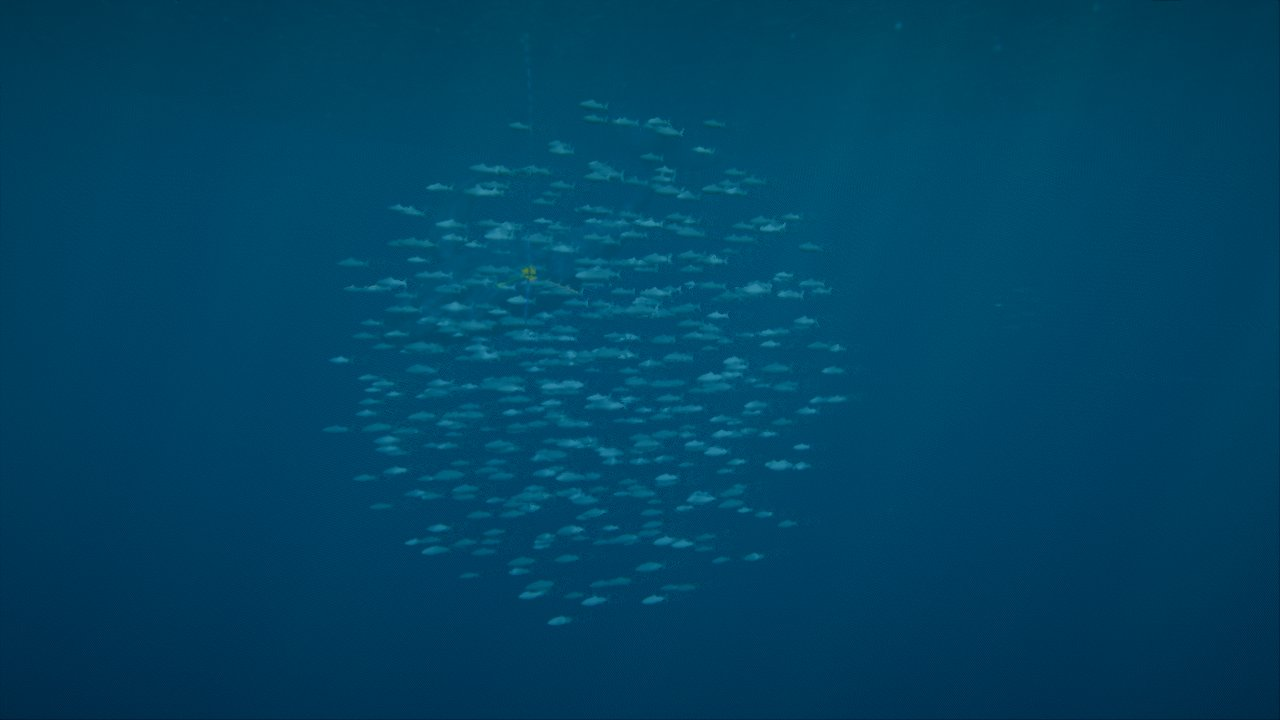
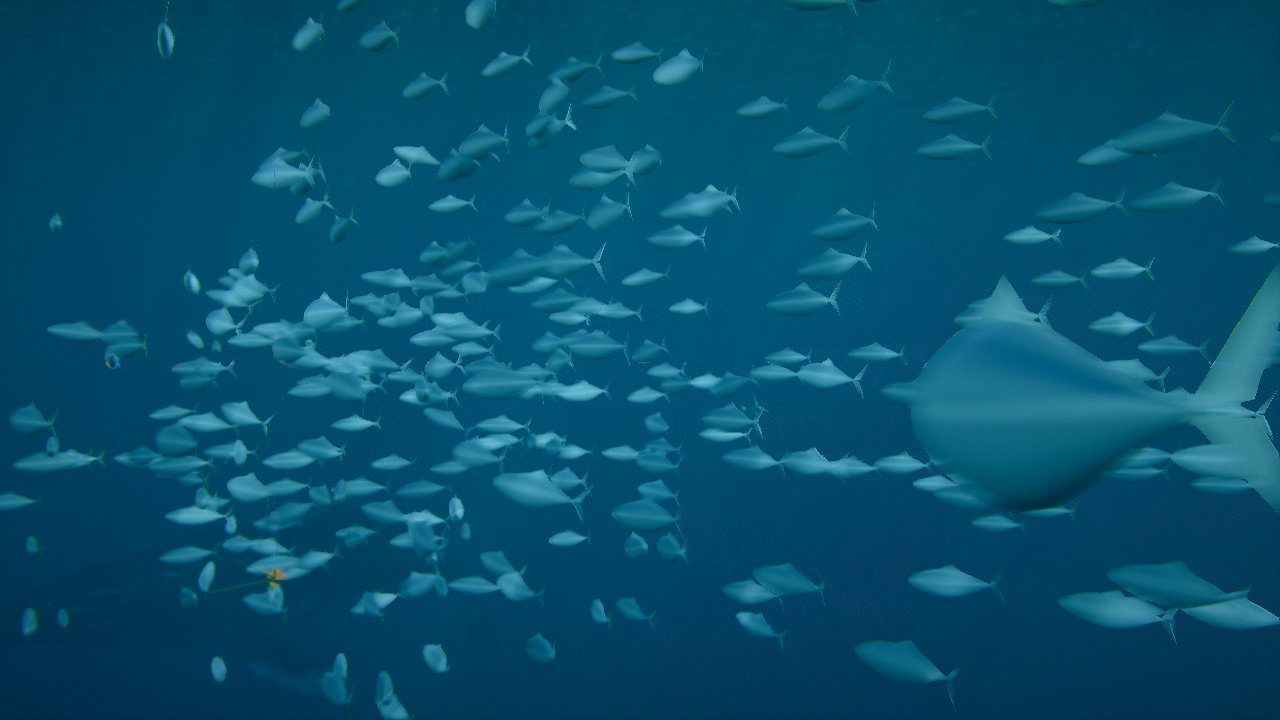
Peces: corregida la geometría (el coletazo se calculaba con la instancia ya aplicada)
En three r186 positionLocal ya lleva la matriz de la instancia al evaluar
positionNode: el coletazo usaba la z del mundo y estiraba cada pez en una
aguja de metros. Ahora usa el atributo original y aplica el desplazamiento
en el eje lateral de cada pez (atributo por instancia). Doc peces.md
corregida (el diagnóstico del TAA era equivocado) y capturas nuevas.

diff --git a/src/life/fish.js b/src/life/fish.js
@@ -1,7 +1,7 @@
 import * as THREE from 'three/webgpu';
 import { mergeGeometries } from 'three/addons/utils/BufferGeometryUtils.js';
 import {
-  abs, clamp, float, instancedBufferAttribute, max, mix, mrt, normalLocal, positionLocal, positionWorld, sin, smoothstep,
+  abs, attribute, clamp, float, instancedBufferAttribute, max, mix, mrt, normalLocal, positionLocal, positionWorld, sin, smoothstep,
   uniform, vec3, vec4, output,
 } from 'three/tsl';
 
@@ -66,17 +66,21 @@ export function createFish({ scene, ocean, water, camera }) {
   const geo = fishGeometry();
 
   // ------------------------------------------------------------------ material (coletazo + contrasombreado)
-  const makeMaterial = (paramsAttr, motionAttr, base, belly) => {
+  const makeMaterial = (paramsAttr, motionAttr, sideAttr, base, belly) => {
     const m = new THREE.MeshStandardNodeMaterial({ roughness: 0.35, metalness: 0.2, side: THREE.DoubleSide });
     const prm = instancedBufferAttribute(paramsAttr); // x fase, y frecuencia (Hz), z amplitud
-    const z = positionLocal.z;
+    // ojo: en three, positionLocal ya lleva la matriz de la instancia cuando se evalúa positionNode;
+    // la coordenada a lo largo del cuerpo sale del atributo original y el desplazamiento lateral se
+    // aplica en el eje "costado" del pez (calculado en CPU con su orientación y escala)
+    const raw = attribute('position', 'vec3');
+    const z = raw.z;
     // la onda recorre el cuerpo de la cabeza a la cola; casi nada delante, mucho en la cola
     const bend = max(float(0.35).sub(z), 0).pow(2).mul(prm.z);
     const wag = sin(time.mul(prm.y).mul(6.2832).add(prm.x).sub(z.mul(2.5))).mul(bend);
-    m.positionNode = positionLocal.add(vec3(wag, 0, 0));
+    m.positionNode = positionLocal.add(instancedBufferAttribute(sideAttr).mul(wag));
     // lomo oscuro, vientre claro y una franja plateada
     const up = clamp(normalLocal.y.mul(0.5).add(0.5), 0, 1);
-    const stripe = float(1).sub(smoothstep(0.0, 0.05, abs(positionLocal.y.sub(0.02)))).mul(0.25);
+    const stripe = float(1).sub(smoothstep(0.0, 0.05, abs(raw.y.sub(0.02)))).mul(0.25);
     m.colorNode = mix(vec3(...belly), vec3(...base), smoothstep(0.35, 0.75, up)).add(stripe);
     // luz bajo el agua (absorción y cáusticas) y sin velocidad propia para el motion blur
     m.outputNode = output.mul(vec4(ocean.underLightNode(positionWorld), 1));
@@ -90,13 +94,14 @@ export function createFish({ scene, ocean, water, camera }) {
   function makeGroup(max, base, belly) {
     const params = new THREE.InstancedBufferAttribute(new Float32Array(max * 3), 3);
     const motion = new THREE.InstancedBufferAttribute(new Float32Array(max * 3), 3); // desplazamiento en el fotograma
-    const mesh = new THREE.InstancedMesh(geo, makeMaterial(params, motion, base, belly), max);
+    const side = new THREE.InstancedBufferAttribute(new Float32Array(max * 3), 3); // eje lateral del pez × escala
+    const mesh = new THREE.InstancedMesh(geo, makeMaterial(params, motion, side, base, belly), max);
     mesh.frustumCulled = false;
     mesh.count = 0;
     scene.add(mesh);
     const pos = new Float32Array(max * 3), vel = new Float32Array(max * 3);
     for (let i = 0; i < max; i++) params.setXYZ(i, Math.random() * 6.28, 3, 0.08);
-    return { mesh, params, motion, pos, vel, max };
+    return { mesh, params, motion, side, pos, vel, max };
   }
   const school = makeGroup(MAX_SCHOOL, [0.2, 0.3, 0.38], [0.85, 0.88, 0.9]);
   const loners = makeGroup(MAX_LONERS, [0.18, 0.24, 0.2], [0.75, 0.72, 0.62]);
@@ -108,7 +113,7 @@ export function createFish({ scene, ocean, water, camera }) {
   let homeAngle = 0;
   const whalePts = [];
   const tmpM = new THREE.Matrix4(), tmpQ = new THREE.Quaternion(), tmpS = new THREE.Vector3(), tmpP = new THREE.Vector3();
-  const fwd = new THREE.Vector3(0, 0, 1), dir = new THREE.Vector3();
+  const fwd = new THREE.Vector3(0, 0, 1), dir = new THREE.Vector3(), sideV = new THREE.Vector3();
 
   function spawn(g, n, center, spread, speed) {
     for (let i = 0; i < n; i++) {
@@ -245,11 +250,14 @@ export function createFish({ scene, ocean, water, camera }) {
       g.params.setY(i, Math.min(1.2 + (sp / size) * 0.35, 9) * wagScale);
       g.params.setZ(i, 0.09);
       g.motion.setXYZ(i, g.vel[i * 3] * dt, g.vel[i * 3 + 1] * dt, g.vel[i * 3 + 2] * dt);
+      sideV.set(tmpS.x, 0, 0).applyQuaternion(tmpQ);
+      g.side.setXYZ(i, sideV.x, sideV.y, sideV.z);
     }
     g.mesh.count = n;
     g.mesh.instanceMatrix.needsUpdate = true;
     g.params.needsUpdate = true;
     g.motion.needsUpdate = true;
+    g.side.needsUpdate = true;
   }
 
   function apply() {

diff --git a/.PLAN/docs/peces.md b/.PLAN/docs/peces.md
@@ -2,23 +2,18 @@
 
 29/09/2026 · Petición de Roberto: un selector en la GUI para ver la versión WebGL, algún pez suelto y un cardumen de peces pequeños que nade como un cardumen de verdad.
 
-| Cardumen de cerca (WebGPU) | Cardumen bajo la superficie |
+| Cardumen de cerca | Cardumen a media distancia |
 |---|---|
-| ![](img/peces/cardumen_cerca.jpg) | ![](img/peces/cardumen.jpg) |
-| **El mismo cardumen en WebGL2 (a la derecha, un pez suelto)** | |
-| ![](img/peces/webgl_cardumen.jpg) | |
+| ![](img/peces/cardumen_cerca.jpg) | ![](img/peces/cardumen_medio.jpg) |
 
-## Revisión del 29/09/2026 (petición de Roberto)
+## Revisión del 29/09/2026 (petición de Roberto: «salen como rayas caóticas»)
 
-- **El cardumen salía como «rayas caóticas».** No era el comportamiento, sino el **TAA**: los peces escribían velocidad 0 para el motion blur. Con la cámara en movimiento, el TAA creía que no se habían movido en pantalla y, al ser tan finos, arrastraba su historia en estelas.
-  - Ahora escriben su **velocidad real en pantalla**: movimiento de la cámara (reproyección con la vista-proyección del fotograma anterior, `ocean.cameraVelocityNode`) más el desplazamiento del propio pez en el fotograma (atributo por instancia).
-  - Las salpicaduras, las burbujas y la nieve marina tenían el mismo problema; ahora usan la velocidad de la cámara.
+- **Causa real: la geometría se deformaba.** En three r186 la matriz de cada instancia se aplica **antes** del `positionNode` del material. El coletazo usaba `positionLocal.z`, que ya estaba en coordenadas del mundo (z de −10 a 0 m), y desplazaba los vértices metros enteros. Cada pez se convertía en una aguja de varios metros, más larga cuanto más lejos del origen.
+  - **Corrección:** la coordenada a lo largo del cuerpo sale del atributo original (`attribute('position')`). El desplazamiento lateral se aplica en el eje del costado del pez, que se calcula en CPU con su orientación y su escala (atributo por instancia).
+  - La primera respuesta (que era el TAA) fue un diagnóstico equivocado. Lo que me hizo verlo fue acercarme a 1,5 m: las agujas seguían ahí con FXAA y sin motion blur.
+- **Mejora que se mantiene del primer intento:** peces, salpicaduras, burbujas y nieve marina escriben su velocidad real en pantalla: movimiento de la cámara (`ocean.cameraVelocityNode`) más, en los peces, su propio desplazamiento en el fotograma. Antes escribían 0, y eso sí producía estelas del TAA al mover la cámara, aunque mucho más cortas.
 - **Peces sueltos:** desactivados (el código se conserva, fuera de la GUI y de los presets).
-- **Selector WebGPU / WebGL2:** retirado de la GUI. El resultado en WebGL2 es demasiado pobre. El fallback automático sin WebGPU (y `?webgl` en la URL) se mantiene.
-
-![](img/peces/cardumen_camara_en_movimiento.jpg)
-
-*El cardumen con la cámara girando a su alrededor, ya sin estelas.*
+- **Selector WebGPU / WebGL2:** retirado de la GUI. El fallback automático sin WebGPU (y `?webgl` en la URL) se mantiene.
 
 ## Selector de renderizador (retirado)
 
